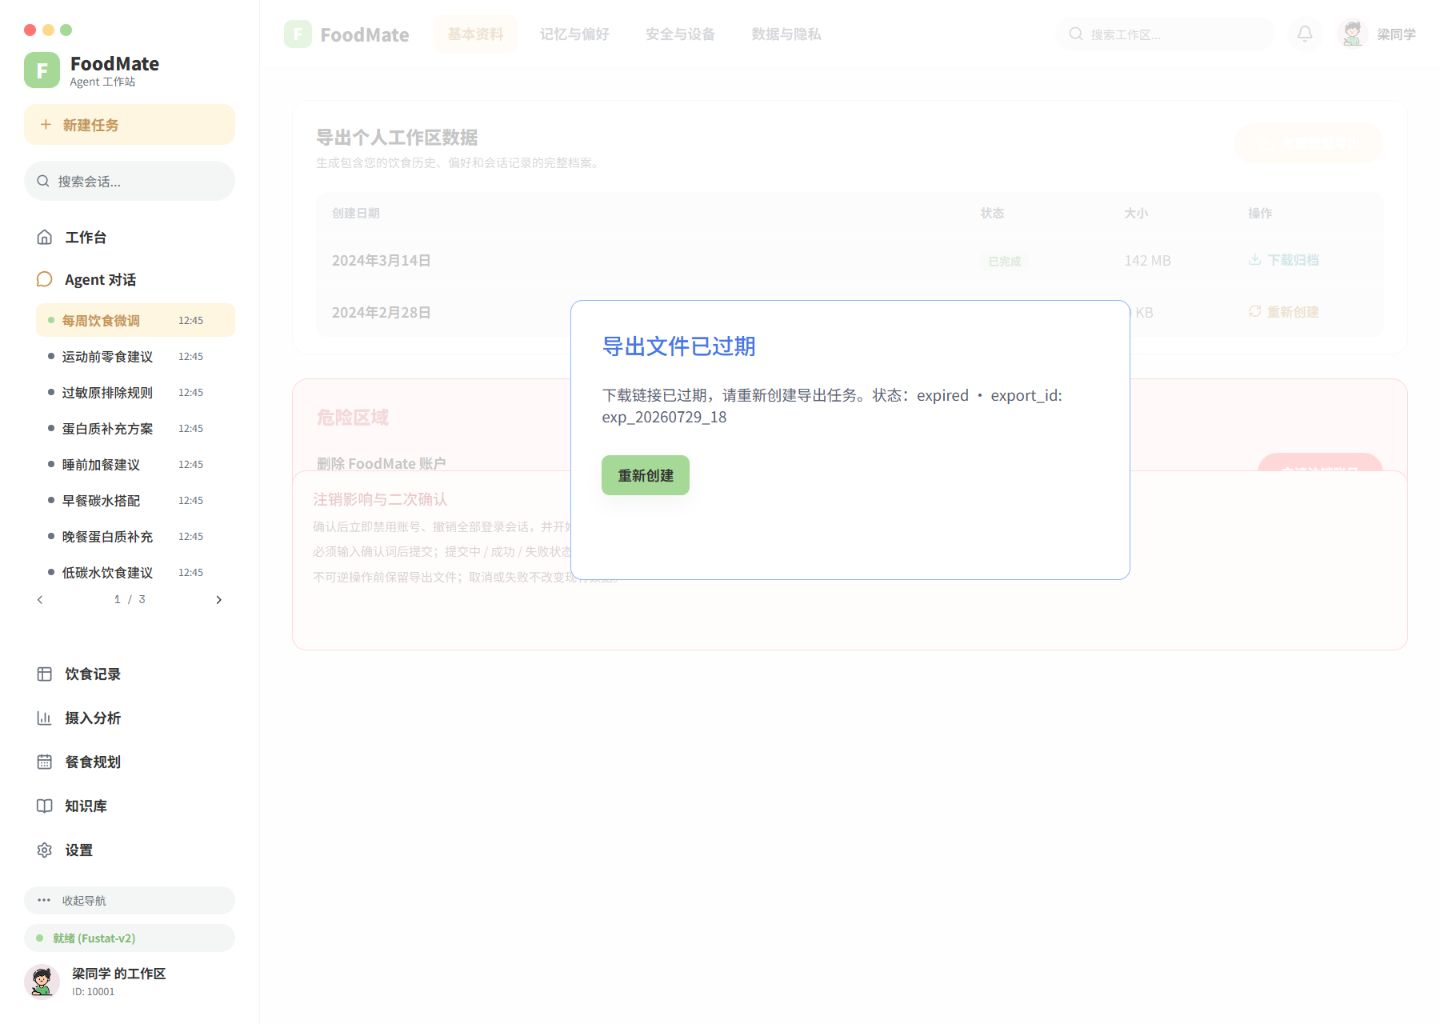
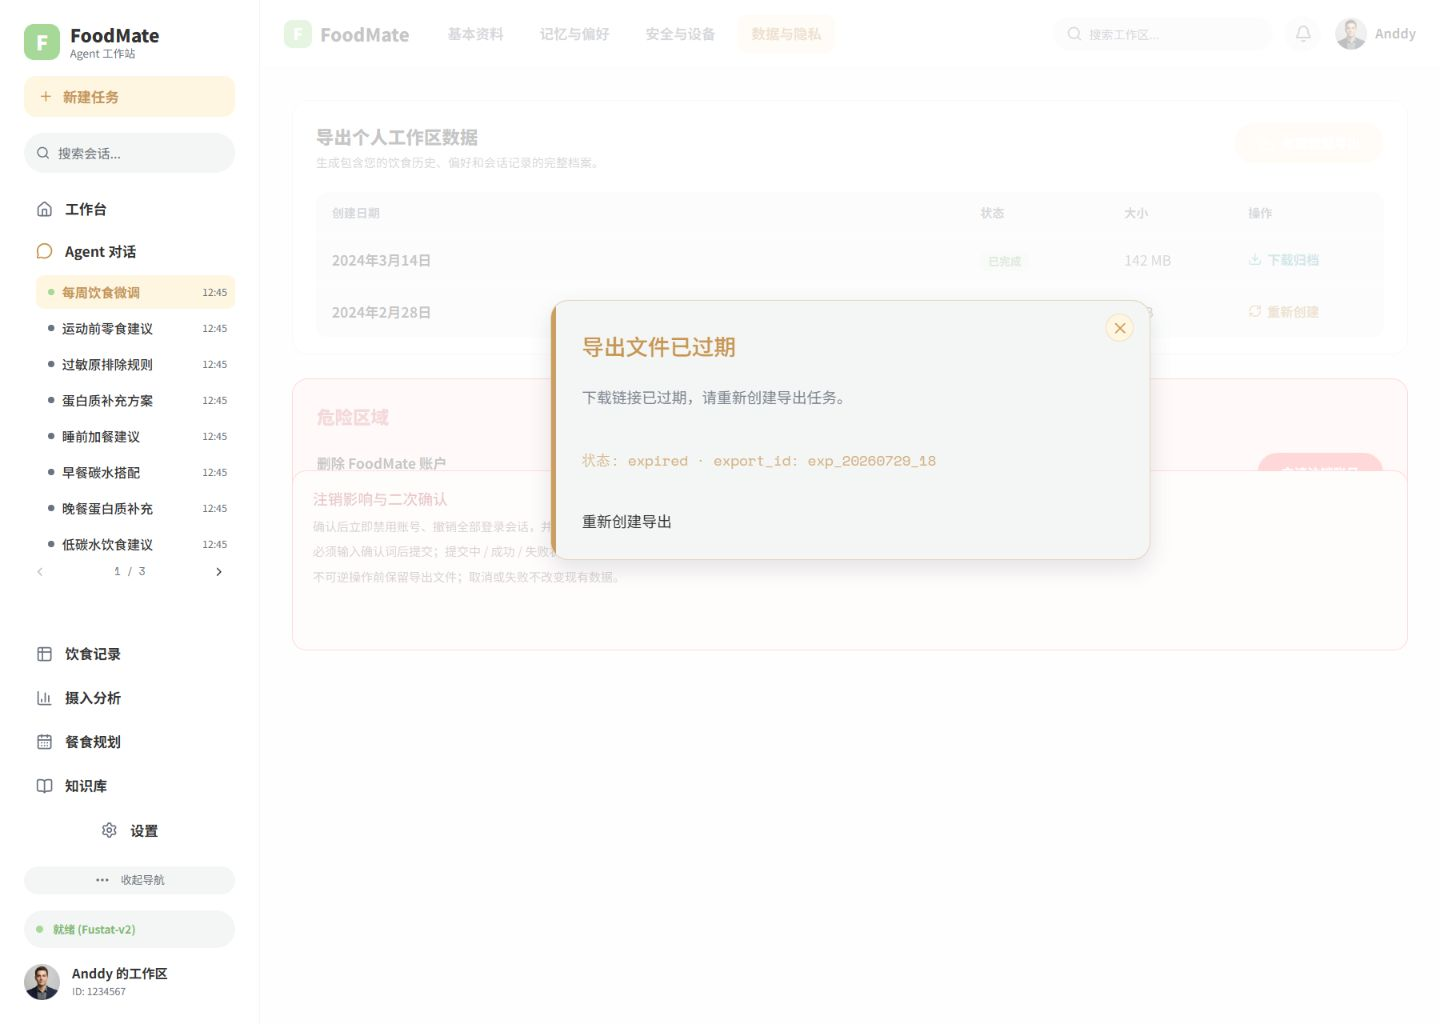
fix(个人中心): 对齐导出文件过期状态

diff --git a/foodmate-ui/src/pages/ProfilePage/ProfilePage.module.css b/foodmate-ui/src/pages/ProfilePage/ProfilePage.module.css
@@ -1616,6 +1616,11 @@
   background: rgb(255 255 255 / 72%);
 }
 
+.fixtureOverlayExportExpired {
+  inset: 0 0 0 260px;
+  background: rgb(255 255 255 / 72%);
+}
+
 .fixtureModal {
   position: absolute;
   top: 300px;
@@ -1682,6 +1687,21 @@
   min-height: 0;
   padding: 0;
   border-color: rgb(128 224 230 / 34%);
+  border-radius: 18px;
+  background: #f4f6f5;
+  box-shadow: 0 8px 22px rgb(26 33 46 / 12%);
+  overflow: hidden;
+  transform: none;
+}
+
+.fixtureModalExportExpired {
+  top: 300px;
+  left: 290px;
+  width: 600px;
+  height: 260px;
+  min-height: 0;
+  padding: 0;
+  border-color: rgb(199 150 84 / 34%);
   border-radius: 18px;
   background: #f4f6f5;
   box-shadow: 0 8px 22px rgb(26 33 46 / 12%);
@@ -2013,6 +2033,109 @@
   background: #80e0e6;
 }
 
+.fixtureExportExpiredAccent {
+  position: absolute;
+  top: -1px;
+  left: -1px;
+  width: 6px;
+  height: 260px;
+  border-radius: 3px;
+  background: rgb(199 150 84 / 90%);
+}
+
+.fixtureExportExpiredTitle,
+.fixtureExportExpiredDetail,
+.fixtureExportExpiredStatus {
+  position: absolute;
+  left: 31px;
+  width: 520px;
+  margin: 0;
+  font-family: var(--font-ui);
+  font-weight: 400;
+  text-align: left;
+}
+
+.fixtureModal h2.fixtureExportExpiredTitle {
+  top: 31px;
+  color: #c79654;
+  font-size: 22px;
+  line-height: 28px;
+}
+
+.fixtureModal p.fixtureExportExpiredDetail {
+  top: 85px;
+  margin: 0;
+  color: rgb(107 114 128 / 86%);
+  font-size: 15px;
+  line-height: 22px;
+}
+
+.fixtureModal p.fixtureExportExpiredStatus {
+  top: 149px;
+  margin: 0;
+  color: rgb(199 150 84 / 72%);
+  font-family: var(--font-mono);
+  font-size: 14px;
+  line-height: 22px;
+}
+
+.fixtureExportExpiredAction {
+  position: absolute;
+  top: 204px;
+  left: 31px;
+  width: auto;
+  height: 32px;
+  min-height: 32px;
+  padding: 0;
+  border: 0;
+  border-radius: 0;
+  color: #333;
+  font-family: var(--font-ui);
+  font-size: 15px;
+  font-weight: 400;
+  line-height: 22px;
+  margin-top: 0;
+  box-shadow: none;
+}
+
+.fixtureExportExpiredAction:hover,
+.fixtureExportExpiredAction:focus-visible {
+  background: transparent;
+  color: #c79654;
+  text-decoration: underline;
+  text-underline-offset: 3px;
+}
+
+.fixtureExportExpiredClose {
+  position: absolute;
+  top: 13px;
+  left: 555px;
+  display: inline-flex;
+  width: 28px;
+  height: 28px;
+  min-height: 28px;
+  align-items: center;
+  justify-content: center;
+  padding: 0;
+  border: 1px solid rgb(199 150 84 / 24%);
+  border-radius: 14px;
+  background: #fff6e2;
+  color: rgb(199 150 84 / 90%);
+  margin-top: 0;
+  box-shadow: none;
+}
+
+.fixtureExportExpiredClose:hover,
+.fixtureExportExpiredClose:focus-visible {
+  background: #ffefd0;
+  color: #c79654;
+}
+
+.fixtureExportExpiredClose svg {
+  width: 18px;
+  height: 18px;
+}
+
 .fixtureLogoutActions {
   position: absolute;
   top: 273px;
@@ -2100,6 +2223,12 @@
   margin-top: 28px;
 }
 
+.fixtureModal > .fixtureExportQueuedClose,
+.fixtureModal > .fixtureExportExpiredAction,
+.fixtureModal > .fixtureExportExpiredClose {
+  margin-top: 0;
+}
+
 .fixturePanel {
   position: fixed;
   inset: 68px 0 0 260px;
@@ -2182,6 +2311,13 @@
     height: 280px;
     transform: translateY(-50%);
   }
+  .fixtureModalExportExpired {
+    top: 50%;
+    left: 16px;
+    width: calc(100% - 32px);
+    height: 260px;
+    transform: translateY(-50%);
+  }
   .fixtureLogoutEyebrow,
   .fixtureLogoutTitle,
   .fixtureLogoutDetail,
@@ -2259,6 +2395,23 @@
     left: 24px;
     top: 196px;
     width: calc(100% - 48px);
+  }
+  .fixtureExportExpiredTitle,
+  .fixtureExportExpiredDetail,
+  .fixtureExportExpiredStatus {
+    left: 24px;
+    width: calc(100% - 48px);
+  }
+  .fixtureExportExpiredStatus {
+    line-height: 20px;
+  }
+  .fixtureExportExpiredAction {
+    top: 200px;
+    left: 24px;
+  }
+  .fixtureExportExpiredClose {
+    right: 13px;
+    left: auto;
   }
   .fixturePanel {
     inset: 0;

diff --git a/foodmate-ui/src/pages/ProfilePage/ProfilePage.tsx b/foodmate-ui/src/pages/ProfilePage/ProfilePage.tsx
@@ -359,6 +359,7 @@ function ProfileFixtureOverlay({ state, onDismiss }: { state: ProfileFixtureStat
   const isDeleteConfirmation = state === 'privacy-delete-confirm';
   const isExportQueued = state === 'privacy-export-queued';
   const isExportRunning = state === 'privacy-export-running';
+  const isExportExpired = state === 'privacy-export-expired';
   return (
     <div
       className={cn(
@@ -368,6 +369,7 @@ function ProfileFixtureOverlay({ state, onDismiss }: { state: ProfileFixtureStat
         isDeleteConfirmation ? styles.fixtureOverlayDelete : undefined,
         isExportQueued ? styles.fixtureOverlayExportQueued : undefined,
         isExportRunning ? styles.fixtureOverlayExportRunning : undefined,
+        isExportExpired ? styles.fixtureOverlayExportExpired : undefined,
       )}
       role="presentation"
     >
@@ -379,6 +381,7 @@ function ProfileFixtureOverlay({ state, onDismiss }: { state: ProfileFixtureStat
           isDeleteConfirmation ? styles.fixtureModalDelete : undefined,
           isExportQueued ? styles.fixtureModalExportQueued : undefined,
           isExportRunning ? styles.fixtureModalExportRunning : undefined,
+          isExportExpired ? styles.fixtureModalExportExpired : undefined,
         )}
         role="alert"
         aria-live="polite"
@@ -405,6 +408,19 @@ function ProfileFixtureOverlay({ state, onDismiss }: { state: ProfileFixtureStat
               状态: queued · 预计等待 1-2 分钟 · export_id: exp_20260731_01
             </p>
             <Button className={styles.fixtureExportQueuedClose} variant="ghost" aria-label="关闭" onClick={onDismiss}>
+              <X aria-hidden="true" />
+            </Button>
+          </>
+        ) : isExportExpired ? (
+          <>
+            <span className={styles.fixtureExportExpiredAccent} aria-hidden="true" />
+            <h2 className={styles.fixtureExportExpiredTitle}>{title}</h2>
+            <p className={styles.fixtureExportExpiredDetail}>下载链接已过期，请重新创建导出任务。</p>
+            <p className={styles.fixtureExportExpiredStatus}>状态: expired · export_id: exp_20260729_18</p>
+            <Button className={styles.fixtureExportExpiredAction} variant="ghost" onClick={onDismiss}>
+              重新创建导出
+            </Button>
+            <Button className={styles.fixtureExportExpiredClose} variant="ghost" aria-label="关闭" onClick={onDismiss}>
               <X aria-hidden="true" />
             </Button>
           </>
@@ -467,7 +483,7 @@ function ProfileFixtureOverlay({ state, onDismiss }: { state: ProfileFixtureStat
         ) : null}
         {state === 'security-password-failed' ||
         state === 'privacy-deletion-failed' ||
-        state === 'privacy-export-expired' ? (
+        (state === 'privacy-export-expired' && !isExportExpired) ? (
           <Button type="button" onClick={onDismiss}>
             重新创建
           </Button>

diff --git a/foodmate-ui/src/pages/ProfilePage/ProfilePage.test.tsx b/foodmate-ui/src/pages/ProfilePage/ProfilePage.test.tsx
@@ -146,6 +146,22 @@ describe('ProfilePage', () => {
     expect(screen.queryByRole('heading', { name: '正在生成数据导出' })).not.toBeInTheDocument();
   });
 
+  it('renders and dismisses the Figma export expired fixture', async () => {
+    const user = userEvent.setup();
+    renderPage('/profile?state=privacy-export-expired');
+
+    expect(screen.getByRole('heading', { name: '导出文件已过期' })).toBeInTheDocument();
+    expect(screen.getByText('下载链接已过期，请重新创建导出任务。')).toBeInTheDocument();
+    expect(screen.getByText('状态: expired · export_id: exp_20260729_18')).toBeInTheDocument();
+    expect(screen.getByRole('button', { name: '重新创建导出' })).toBeInTheDocument();
+    expect(screen.getByRole('button', { name: '关闭' })).toBeInTheDocument();
+    expect(screen.queryByText('状态：expired')).not.toBeInTheDocument();
+
+    await user.click(screen.getByRole('button', { name: '重新创建导出' }));
+
+    expect(screen.queryByRole('heading', { name: '导出文件已过期' })).not.toBeInTheDocument();
+  });
+
   it('edits profile fields and manages allergens before saving', async () => {
     const user = userEvent.setup();
     renderPage('/profile');
